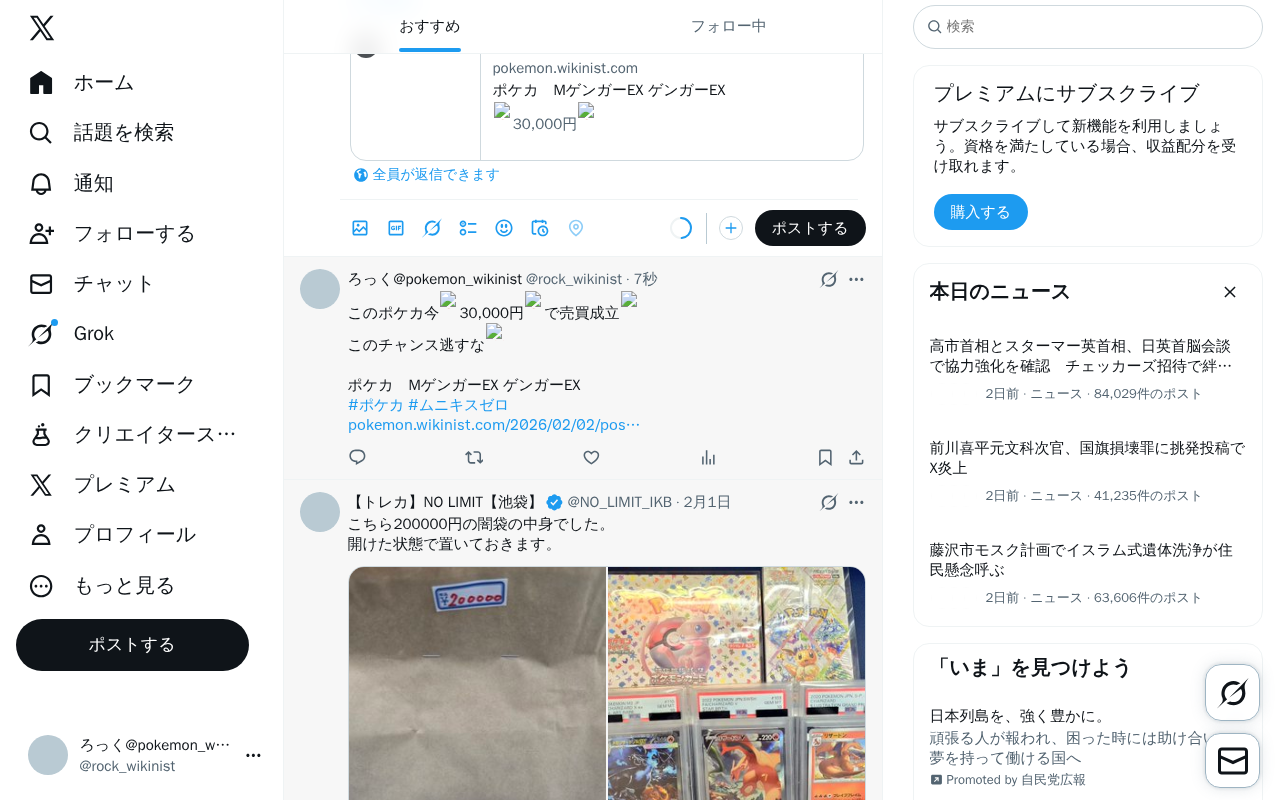
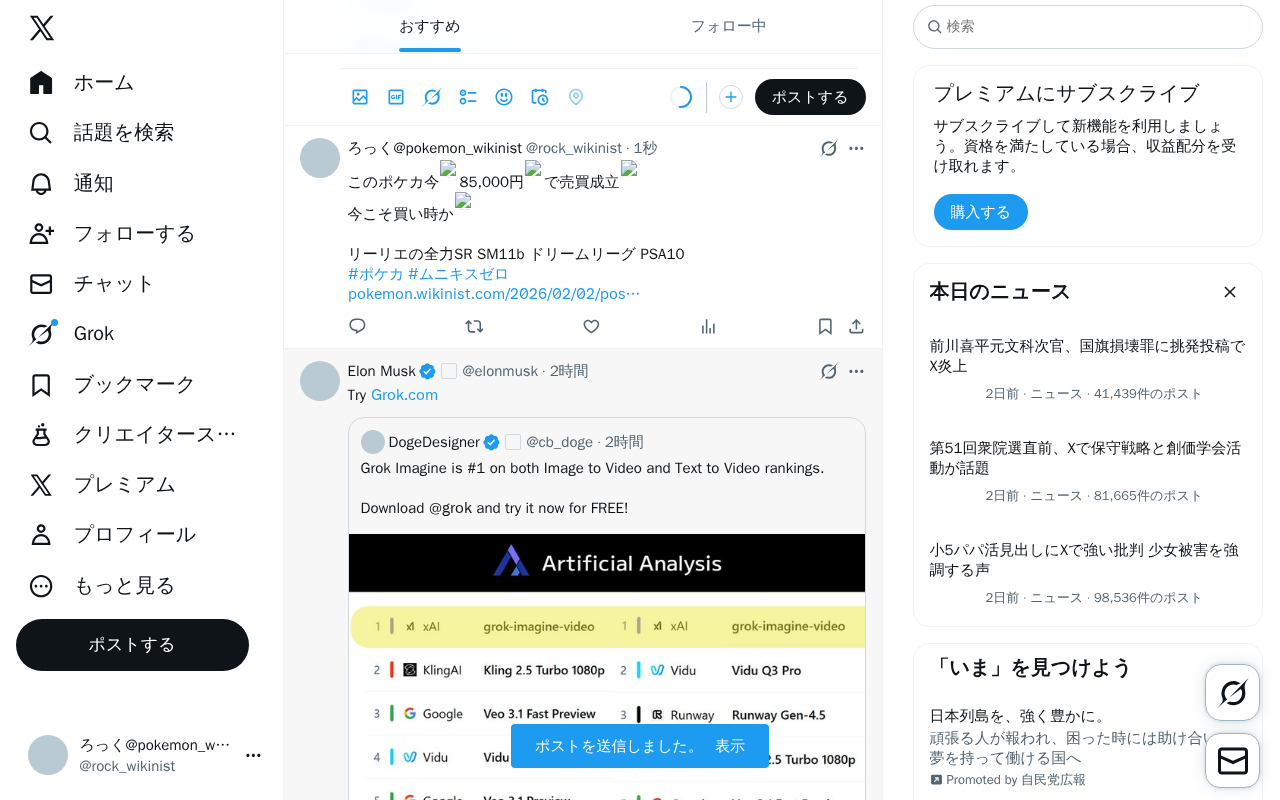
update system data

diff --git a/content/posts/test-pokemon-20260202-183751.md b/content/posts/test-pokemon-20260202-183751.md
@@ -1,0 +1,38 @@
+---
+title: "リーリエの全力SR SM11b ドリームリーグ PSA10"
+date: 2026-02-02T18:37:51+09:00
+description: "🔥85,000円🔥 メルカリで「リーリエの全力SR SM11b ドリームリーグ PSA10」が販売中！"
+amazon_url: "https://jp.mercari.com/item/m68703665974?afid=1391290753"
+robotsNoIndex: true
+categories: ["ポケモン"]
+tags: ["5万円以上", "リーリエ"]
+cover:
+  image: "https://static.mercdn.net/thumb/item/webp/m68703665974_1.jpg?1770024049"
+  hiddenInList: true
+  hiddenInSingle: true
+---
+
+<div class="image-and-buttons">
+    <div class="image-area" style="margin-bottom: 20px; text-align: center;">
+        <a href="https://jp.mercari.com/item/m68703665974?afid=1391290753" target="_blank" rel="nofollow sponsored noopener noreferrer">
+            <img src="https://static.mercdn.net/thumb/item/webp/m68703665974_1.jpg?1770024049" alt="85,000" style="max-width: 100%; border-radius: 8px; border: 1px solid #ddd;" />
+        </a>
+        <br><span style="font-size:1.5em;color:red;font-weight:bold;">🔥85,000円🔥</span>
+    </div>
+    <div class="link-buttons">
+        <a href="https://jp.mercari.com/item/m68703665974?afid=1391290753" target="_blank" rel="nofollow sponsored noopener noreferrer">
+            💎 商品状態を見る
+        </a>
+        <a href="https://jp.mercari.com/search?afid=1391290753&category_id=1289&keyword=%E3%83%AA%E3%83%BC%E3%83%AA%E3%82%A8%E3%81%AE%E5%85%A8%E5%8A%9BSR%20SM11b%20%E3%83%89%E3%83%AA%E3%83%BC%E3%83%A0%E3%83%AA%E3%83%BC%E3%82%B0%20PSA10" target="_blank" rel="nofollow sponsored noopener noreferrer">
+            🔍 類似商品を見る
+        </a>
+        <a href="https://jp.mercari.com/search?afid=1391290753&brand_id=&category_id=1289&color_id=&item_condition_id=&item_types=&keyword=%E3%83%AA%E3%83%BC%E3%83%AA%E3%82%A8%E3%81%AE%E5%85%A8%E5%8A%9BSR%20SM11b%20%E3%83%89%E3%83%AA%E3%83%BC%E3%83%A0%E3%83%AA%E3%83%BC%E3%82%B0%20PSA10&order=desc&shipping_method=&shipping_payer_id=&size_id=&sort=created_time&status=sold_out%2Ctrading" target="_blank" rel="nofollow sponsored noopener noreferrer">
+            📈 価格推移・履歴を見る
+        </a>
+    </div>
+</div>
+
+<p style="font-size:1.0em;color:#555;line-height:1.6;">
+「リーリエの全力SR SM11b ドリームリーグ PSA10」はメルカリに出品されました！<br>
+最新のポケモン情報は当サイトで随時更新中です。
+</p>
